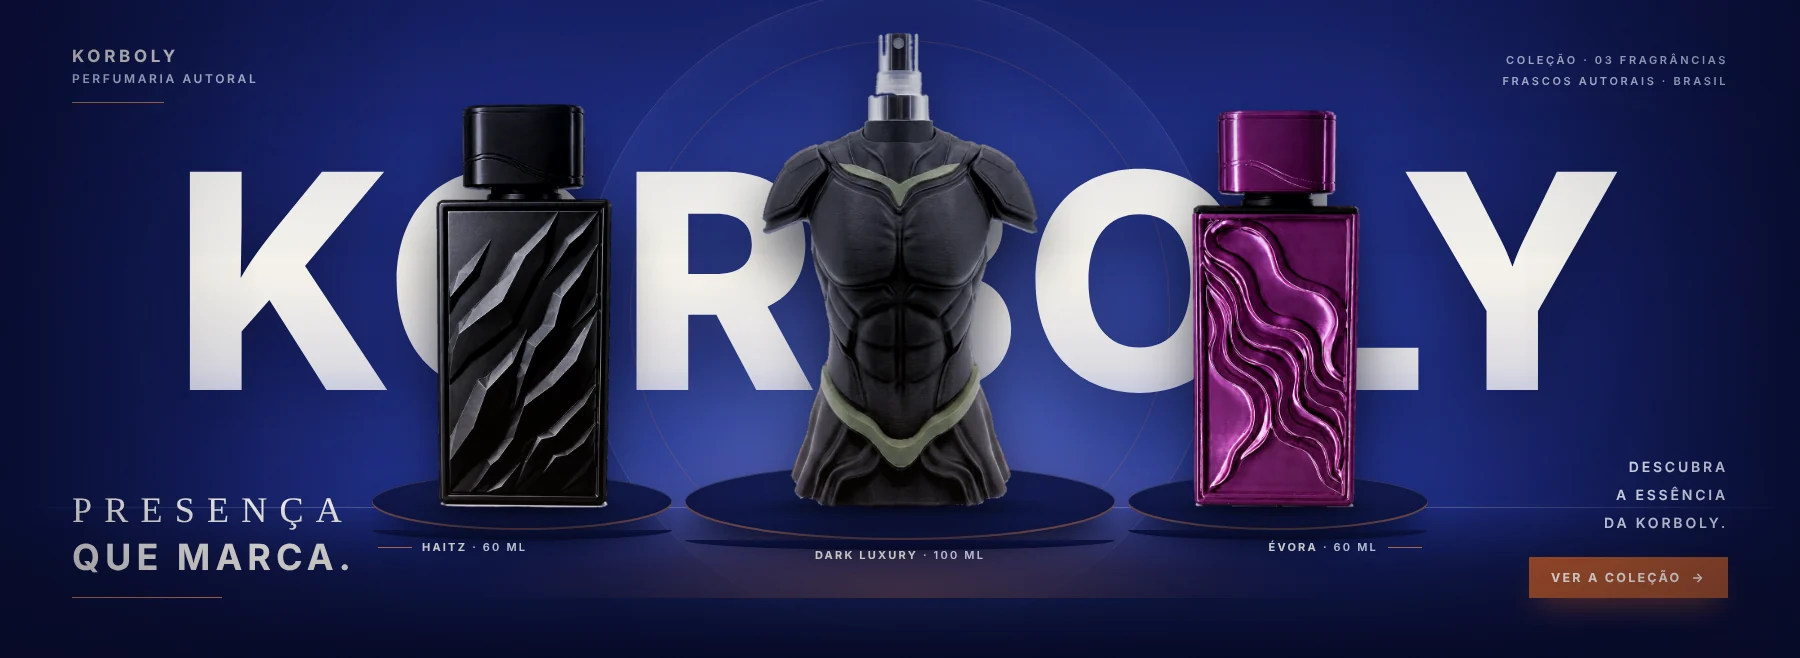
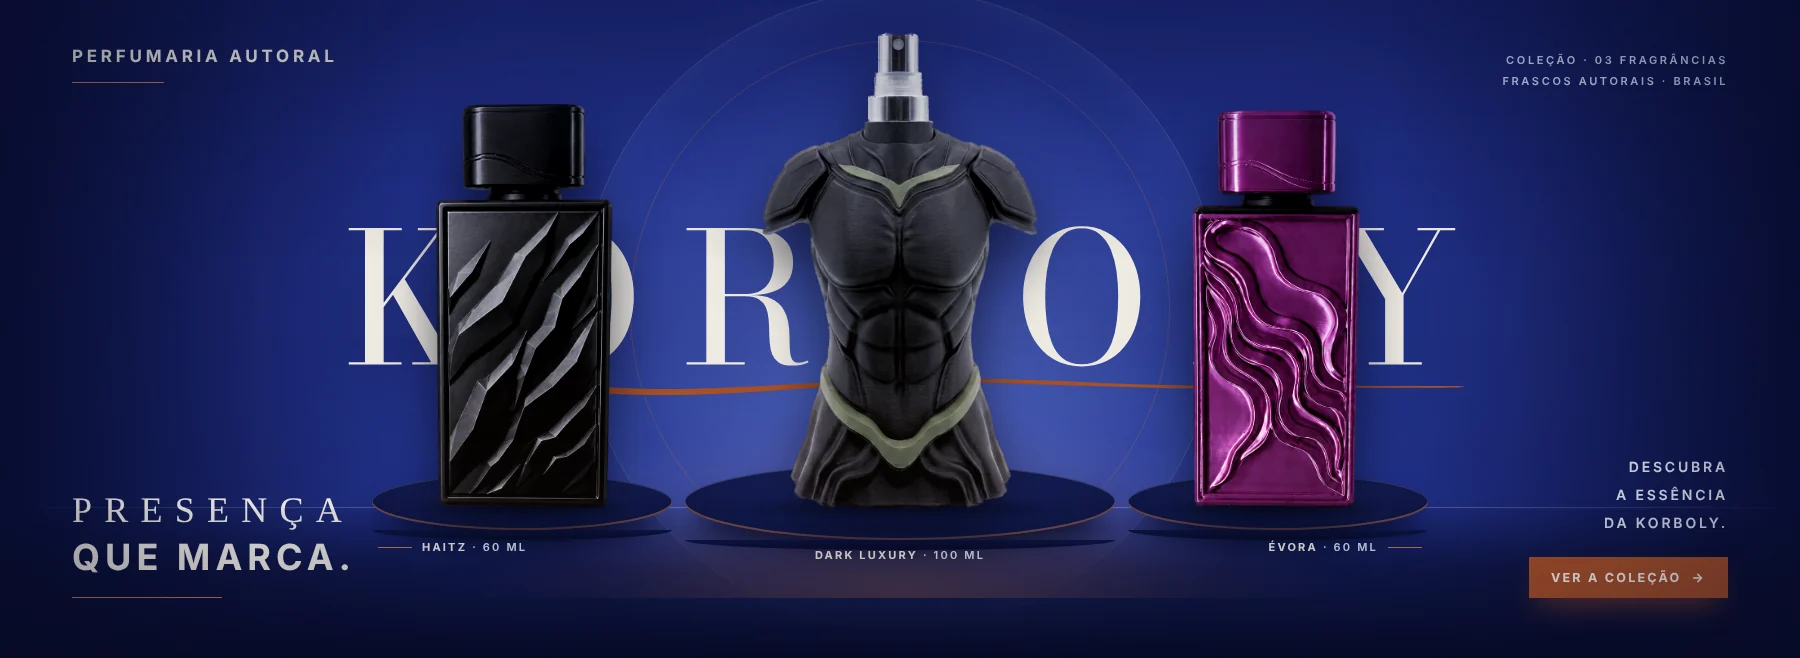
atualizacao

diff --git a/index.html b/index.html
@@ -12,14 +12,15 @@
 <meta property="og:url" content="https://legendadosbrazil-sketch.github.io/korboly.github/">
 <meta name="twitter:card" content="summary_large_image">
 <link rel="preload" as="image" href="img/dark-luxury.webp">
-<link rel="icon" href="img/icons/favicon.ico" sizes="48x48">
-<link rel="icon" href="img/icons/favicon.svg" type="image/svg+xml">
-<link rel="apple-touch-icon" href="img/icons/apple-touch-icon.png">
-<link rel="manifest" href="img/icons/site.webmanifest">
 <meta name="theme-color" content="#EFEBE3">
+<link rel="icon" href="favicon.ico" sizes="48x48">
+<link rel="icon" href="favicon.svg" type="image/svg+xml">
+<link rel="apple-touch-icon" href="apple-touch-icon.png">
+<link rel="manifest" href="site.webmanifest">
+
 <link rel="stylesheet" href="https://fonts.googleapis.com/css2?family=Cormorant+Garamond:ital,wght@0,300;0,400;1,400&family=Inter+Tight:wght@500;600&display=swap">
 <style>
-:root{--paper:#EFEBE3;--sheet:#F6F3EC;--alt:#E4DFD3;--ink:#1D2C78;--muted:#555D8C;--accent:#A64F27;--rule:rgba(29,44,120,.55);--line:rgba(29,44,120,.16);--line2:rgba(29,44,120,.24);--ph:#DDD7C9;--ease:cubic-bezier(.2,.8,.2,1);--H:max(130px,min(46vh,31vw,calc(100svh - 360px)))}
+:root{--paper:#EFEBE3;--sheet:#F6F3EC;--alt:#E4DFD3;--ink:#1D2C78;--muted:#555D8C;--accent:#A64F27;--rule:rgba(29,44,120,.55);--line:rgba(29,44,120,.16);--line2:rgba(29,44,120,.24);--ph:#DDD7C9;--ease:cubic-bezier(.2,.8,.2,1);--H:max(130px,min(62vh,38vw,calc(100svh - 300px)))}
 *,*::before,*::after{box-sizing:border-box}
 html,body{margin:0;background:var(--paper);color:var(--ink);font-family:"Inter Tight",system-ui,sans-serif;-webkit-font-smoothing:antialiased}
 body{overflow-x:hidden;line-height:1.5}
@@ -41,9 +42,10 @@ button{font:inherit;color:inherit;background:none;border:0;padding:0;cursor:poin
 .tl{display:flex;gap:28px;align-items:center}.tn{display:flex;gap:28px}.tn a:hover{color:var(--accent)}.mb{display:none}
 .top>:first-child{justify-self:start}.top>:last-child{justify-self:end}
 .logo{display:flex;flex-direction:column;align-items:center;gap:5px;color:var(--ink)}
+.logo img{display:block;width:152px;height:auto}
+.flog{align-items:flex-start}.flog img{width:168px}
+.dl .logo img{width:200px}
 .logo b{font-family:"Cormorant Garamond",serif;font-weight:400;font-size:24px;letter-spacing:.34em;padding-left:.34em;line-height:1}
-.logo .lg{display:block;height:40px;width:auto}
-@media(max-width:767px){.logo .lg{height:30px}}
 .logo i{font-style:normal;font-weight:600;font-size:8.5px;letter-spacing:.34em;padding-left:.34em;color:var(--muted)}
 .acts{display:flex;align-items:center;gap:14px}.acc{display:inline-grid;place-items:center;width:28px;height:28px;color:var(--ink);transition:color .2s}.acc:hover{color:var(--accent)}
 /* tabs */
@@ -101,7 +103,7 @@ button{font:inherit;color:inherit;background:none;border:0;padding:0;cursor:poin
 .pst svg{width:100%;height:100%;display:block}
 @media(max-width:767px){
 :root{--H:min(60vw,40svh)}
-.top{height:64px;padding:0 16px}.logo b{font-size:17px}.logo i{font-size:7px}
+.top{height:64px;padding:0 16px}.logo img{width:116px}.logo i{font-size:7px}
 .top .lbl{font-size:9px}
 .tabs{top:max(74px,calc(50% - var(--Hp)/2 - 70px))}.tabs .t{padding:0 7px;font-size:9px}
 .c1{font-size:24px;height:28px}
@@ -203,7 +205,7 @@ details .mu a,.ul{border-bottom:1px solid var(--muted)}
 <header class="fx top" id="top">
 <div class="tl"><button class="box lbl mb" id="mb" type="button" aria-expanded="false" aria-controls="tn">Menu</button>
 <nav class="tn lbl" id="tn" aria-label="Principal"><a href="#hero">Fragrâncias</a><a href="#mais">Sobre</a><a href="#contato">Contato</a></nav></div>
-<a class="logo" href="#hero" aria-label="Korboly"><picture><source media="(max-width:767px)" srcset="img/logo/korboly-logotipo-pequeno.svg"><img class="lg" src="img/logo/korboly-logotipo.svg" alt="Korboly" width="682" height="160"></picture><i>PERFUMARIA</i></a>
+<a class="logo" href="#hero" aria-label="Korboly"><img src="img/logo.svg" alt="Korboly" width="715" height="160"></a>
 <div class="acts"><a class="acc" href="conta.html" aria-label="Minha conta" title="Minha conta"><svg width="18" height="18" viewBox="0 0 18 18" fill="none" stroke="currentColor" stroke-width="1.2"><circle cx="9" cy="6" r="3.2"/><path d="M2.500 16c.6-3.300 3.300-5 6.500-5s5.900 1.700 6.500 5"/></svg></a><a class="box lbl" href="https://korboly.com/collections/all">Loja</a></div>
 </header>
 <nav class="ab tabs" id="tabs" aria-label="Fragrâncias"><span class="ind" id="ind"></span></nav>
@@ -221,13 +223,13 @@ details .mu a,.ul{border-bottom:1px solid var(--muted)}
 <section class="pr"><div class="w"><div class="prh"><h2 class="rv">Escolha a sua.</h2><a class="cta lbl rv" href="https://korboly.com/collections/all" style="margin:0">Ver o catálogo</a></div><div class="prg"><a class="pc rv" style="transition-delay:0.0s" href="https://korboly.com/products/dark-luxury"><div class="pci"><img src="img/dark-luxury.webp" alt="Frasco Dark Luxury" width="640" height="1137" loading="lazy" decoding="async"></div><div class="pct"><h3>Dark Luxury</h3><p>100 ML · R$ 229,90</p></div></a><a class="pc rv" style="transition-delay:0.1s" href="https://korboly.com/products/evora"><div class="pci"><img src="img/evora.webp" alt="Frasco Évora" width="640" height="1137" loading="lazy" decoding="async"></div><div class="pct"><h3>Évora</h3><p>60 ML · R$ 169,90</p></div></a><a class="pc rv" style="transition-delay:0.2s" href="https://korboly.com/products/haitz"><div class="pci"><img src="img/haitz.webp" alt="Frasco Haitz" width="640" height="1137" loading="lazy" decoding="async"></div><div class="pct"><h3>Haitz</h3><p>60 ML · R$ 179,90</p></div></a></div></div></section>
 </main>
 <footer class="pgf" id="contato"><div class="w">
-<div><div class="logo" style="align-items:flex-start"><img class="lg" src="img/logo/korboly-logotipo.svg" alt="Korboly" width="682" height="160" style="height:34px;margin-left:-4px"></div><p class="mu" style="font-size:12px;margin-top:14px">© Korboly. Todos os direitos reservados.</p></div>
+<div><div class="logo flog"><img src="img/logo.svg" alt="Korboly" width="715" height="160"></div><p class="mu" style="font-size:12px;margin-top:14px">© Korboly. Todos os direitos reservados.</p></div>
 <div class="fl lbl"><a href="https://korboly.com/collections/all">Catálogo</a><a href="https://korboly.com/pages/contact">Contato</a><a href="https://korboly.com/policies/privacy-policy">Privacidade</a><a href="https://instagram.com/korboly">Instagram</a><a href="https://www.tiktok.com/@korboly.perfumaria">TikTok</a></div>
 </div></footer>
 <div class="grain"></div>
 <div class="detail" id="detail" role="dialog" aria-modal="true" aria-label="Detalhes da fragrância">
 <button class="box lbl cls" id="cls">Fechar</button>
-<div class="dl"><div class="logo"><picture><source media="(max-width:767px)" srcset="img/logo/korboly-logotipo-pequeno.svg"><img class="lg" src="img/logo/korboly-logotipo.svg" alt="Korboly" width="682" height="160"></picture><i>PERFUMARIA</i></div></div>
+<div class="dl"><div class="logo"><img src="img/logo-linha.svg" alt="Korboly" width="692" height="160"></div></div>
 <div class="dtx">
 <div class="m"><span class="lbl d1" id="d1"></span></div>
 <div class="m"><span class="d2" id="d2"></span></div>

diff --git a/admin/index.html b/admin/index.html
@@ -6,6 +6,11 @@
 <title>Korboly Admin</title>
 <meta name="robots" content="noindex,nofollow">
 <meta name="theme-color" content="#EFEBE3">
+<link rel="icon" href="../favicon.ico" sizes="48x48">
+<link rel="icon" href="../favicon.svg" type="image/svg+xml">
+<link rel="apple-touch-icon" href="../apple-touch-icon.png">
+<link rel="manifest" href="../site.webmanifest">
+
 <link rel="stylesheet" href="https://fonts.googleapis.com/css2?family=Cormorant+Garamond:ital,wght@0,300;0,400;1,400&family=Inter+Tight:wght@500;600&display=swap">
 <link rel="stylesheet" href="../css/ui.css">
 <style>
@@ -49,7 +54,7 @@ h1.serif{font-size:36px;margin:0 0 28px}
 <div class="modal" id="modal"><div class="box" id="mbox"></div></div>
 <div class="toast" id="toast" role="status"></div>
 <div class="grain"></div>
-<script src="https://cdn.jsdelivr.net/npm/@supabase/supabase-js@2.45.4/dist/umd/supabase.min.js"></script>
+<script src="https://cdn.jsdelivr.net/npm/@supabase/supabase-js@2.119.0/dist/umd/supabase.min.js"></script>
 <script src="../js/config.js"></script><script src="../js/sb.js"></script>
 <script>
 (function(){
@@ -74,7 +79,7 @@ var TABS=[['dash','Dashboard'],['prod','Produtos'],['ped','Pedidos'],['cli','Cli
 var cur='dash',me=null;
 
 function layout(){
- root.innerHTML='<div class="app"><aside class="sb" id="sb"><a class="logo" href="../index.html"><b>KORBOLY</b><i>ADMIN</i></a><nav class="lbl" id="nav">'+
+ root.innerHTML='<div class="app"><aside class="sb" id="sb"><a class="logo" href="../index.html"><img src="../img/logo.svg" alt="Korboly" width="715" height="160"><i>ADMIN</i></a><nav class="lbl" id="nav">'+
  TABS.map(function(t){return '<button data-t="'+t[0]+'">'+ic[t[0]]+t[1]+'</button>'}).join('')+'</nav><div class="bot"><a class="btn sm" href="../index.html">Ver a loja</a><a class="btn sm" href="../conta.html">Minha conta</a></div></aside>'+
  '<div><div class="top"><button class="btn sm mbtn" id="mb">Menu</button><span></span><div class="who"><b>'+esc(me.full_name||'Administrador')+'</b>Administrador</div></div><div class="cont" id="cont"></div></div></div>';
  $('#nav').onclick=function(e){var b=e.target.closest('button');if(b){cur=b.dataset.t;go();$('#sb').classList.remove('on')}};

diff --git a/conta.html b/conta.html
@@ -6,6 +6,11 @@
 <title>Minha conta – Korboly</title>
 <meta name="robots" content="noindex">
 <meta name="theme-color" content="#EFEBE3">
+<link rel="icon" href="favicon.ico" sizes="48x48">
+<link rel="icon" href="favicon.svg" type="image/svg+xml">
+<link rel="apple-touch-icon" href="apple-touch-icon.png">
+<link rel="manifest" href="site.webmanifest">
+
 <link rel="stylesheet" href="https://fonts.googleapis.com/css2?family=Cormorant+Garamond:ital,wght@0,300;0,400;1,400&family=Inter+Tight:wght@500;600&display=swap">
 <link rel="stylesheet" href="css/ui.css">
 <style>
@@ -36,11 +41,11 @@ main{max-width:1060px;margin:0 auto;padding:clamp(28px,6vw,64px) clamp(16px,4vw,
 </style>
 </head>
 <body>
-<header><a href="index.html" class="back lbl">← Voltar à loja</a><a href="index.html" class="logo"><b>KORBOLY</b><i>PERFUMARIA</i></a><span style="width:100px"></span></header>
+<header><a href="index.html" class="back lbl">← Voltar à loja</a><a href="index.html" class="logo"><img src="img/logo.svg" alt="Korboly" width="715" height="160"></a><span style="width:100px"></span></header>
 <main id="app"></main>
 <div class="toast" id="toast" role="status"></div>
 <div class="grain"></div>
-<script src="https://cdn.jsdelivr.net/npm/@supabase/supabase-js@2.45.4/dist/umd/supabase.min.js"></script>
+<script src="https://cdn.jsdelivr.net/npm/@supabase/supabase-js@2.119.0/dist/umd/supabase.min.js"></script>
 <script src="js/config.js"></script><script src="js/sb.js"></script>
 <script>
 (function(){

diff --git a/css/ui.css b/css/ui.css
@@ -6,6 +6,7 @@ a{color:inherit;text-decoration:none}button{font:inherit;color:inherit;backgroun
 .lbl{font-weight:600;font-size:10.5px;line-height:1;letter-spacing:.09em;text-transform:uppercase}
 .serif{font-family:"Cormorant Garamond",Georgia,serif;font-weight:400}
 .logo{display:flex;flex-direction:column;align-items:center;gap:5px}
+.logo img{display:block;width:150px;height:auto}
 .logo b{font-family:"Cormorant Garamond",serif;font-weight:400;font-size:24px;letter-spacing:.34em;padding-left:.34em;line-height:1}
 .logo i{font-style:normal;font-weight:600;font-size:8.5px;letter-spacing:.34em;padding-left:.34em;color:var(--muted)}
 .muted{color:var(--muted)}
